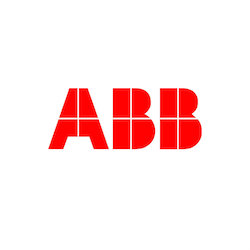
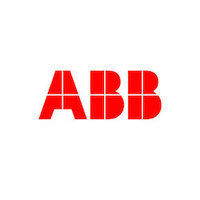
Resize images

diff --git a/app/uploaders/image_uploader.rb b/app/uploaders/image_uploader.rb
@@ -1,7 +1,7 @@
 class ImageUploader < CarrierWave::Uploader::Base
   # Include RMagick or MiniMagick support:
   # include CarrierWave::RMagick
-  # include CarrierWave::MiniMagick
+  include CarrierWave::MiniMagick
 
   # Choose what kind of storage to use for this uploader:
   if Rails.env.production?
@@ -26,7 +26,7 @@ class ImageUploader < CarrierWave::Uploader::Base
   # end
 
   # Process files as they are uploaded:
-  # process scale: [200, 300]
+  process resize_to_fit: [200, 300]
   #
   # def scale(width, height)
   #   # do something
@@ -39,9 +39,9 @@ class ImageUploader < CarrierWave::Uploader::Base
 
   # Add a white list of extensions which are allowed to be uploaded.
   # For images you might use something like this:
-  def extension_whitelist
-    %w(jpg jpeg gif png)
-  end
+  # def extension_whitelist
+  #   %w(jpg jpeg gif png)
+  # end
 
   # Override the filename of the uploaded files:
   # Avoid using model.id or version_name here, see uploader/store.rb for details.
